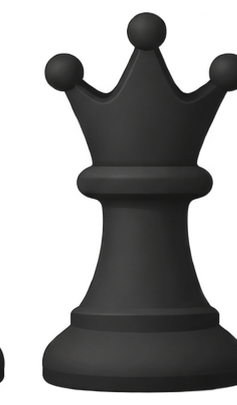
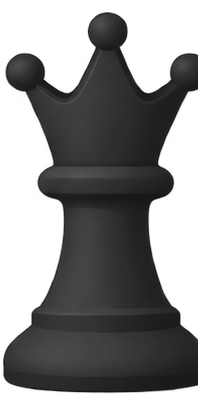
fix king and queen images

diff --git a/tests/test_piece_art.py b/tests/test_piece_art.py
@@ -1,0 +1,19 @@
+import unittest
+from pathlib import Path
+
+import pygame
+
+PIECES = Path(__file__).resolve().parents[1] / "assets" / "pieces" / "normal"
+
+
+class PieceArtTests(unittest.TestCase):
+    def test_piece_images_hold_one_figure_without_sheet_leftovers(self):
+        for path in sorted(PIECES.glob("*.png")):
+            with self.subTest(piece=path.stem):
+                image = pygame.image.load(str(path))
+                parts = [part for part in pygame.mask.from_surface(image, 1).connected_components() if part.count() > 50]
+                self.assertEqual(len(parts), 1, f"{path.name} has {len(parts)} separate shapes")
+
+
+if __name__ == "__main__":
+    unittest.main()
